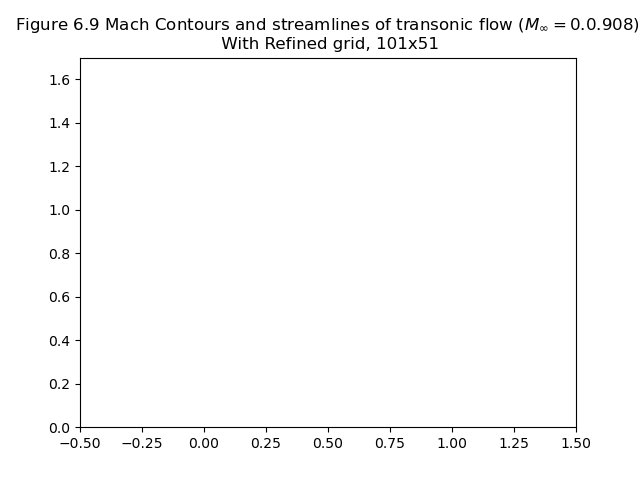
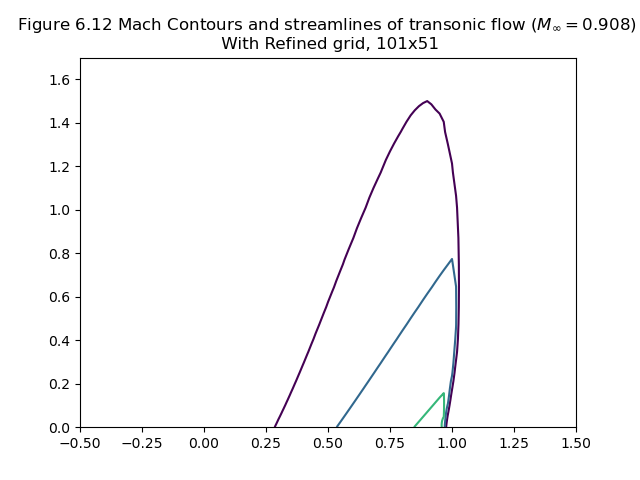
fixed fig 6.12

diff --git a/Ex6.1-Murman-Cole/plot_figures.py b/Ex6.1-Murman-Cole/plot_figures.py
@@ -132,18 +132,20 @@ plt.savefig("Fig-6.10-transonicCp.png")
 ####################################################################
 plt.figure()
 
-plt.title(f"Figure 6.9 Mach Contours and streamlines of transonic flow ($M_\infty=0.0.908$) \n With Refined grid, 101x51")
-x, y, M = readXYDataFile("resultC5-v-M0p908.dat")
+plt.title(f"Figure 6.12 Mach Contours and streamlines of transonic flow ($M_\infty=0.908$) \n With Refined grid, 101x51")
+x, y, M = readXYDataFile("resultC5-M-M0p908.dat")
+x, y, v = readXYDataFile("resultC5-v-M0p908.dat")
 x, y, u = readXYDataFile("resultC5-u-M0p908.dat")
-x, y, v = readXYDataFile("resultC5-M-M0p908.dat")
 
-cvar = plt.contour(x,y,M,[1,1.1,1.2,1.3])
-#plt.gca().clabel(cvar,fontsize=10) #<-not working wtf
-#plt.streamplot(np.transpose(x),np.transpose(y),np.transpose(u),np.transpose(v)) requires equal spacing wtf
-#plt.quiver(x,y,u,v,scale=0.02)
 
 plt.xlim([-0.5,1.5])
 plt.ylim([0,1.7])
+
+cvar = plt.contour(x,y,M,[1,1.1,1.2,1.3])
+#plt.colorbar()
+#plt.gca().clabel(cvar,fontsize=10) #<-not working wtf
+#plt.streamplot(np.transpose(x),np.transpose(y),np.transpose(u),np.transpose(v)) requires equal spacing wtf
+#plt.quiver(x,y,u,v,scale=0.02)
 
 plt.savefig("Fig-6.12-transonic-streamlines-fine.png")
 
